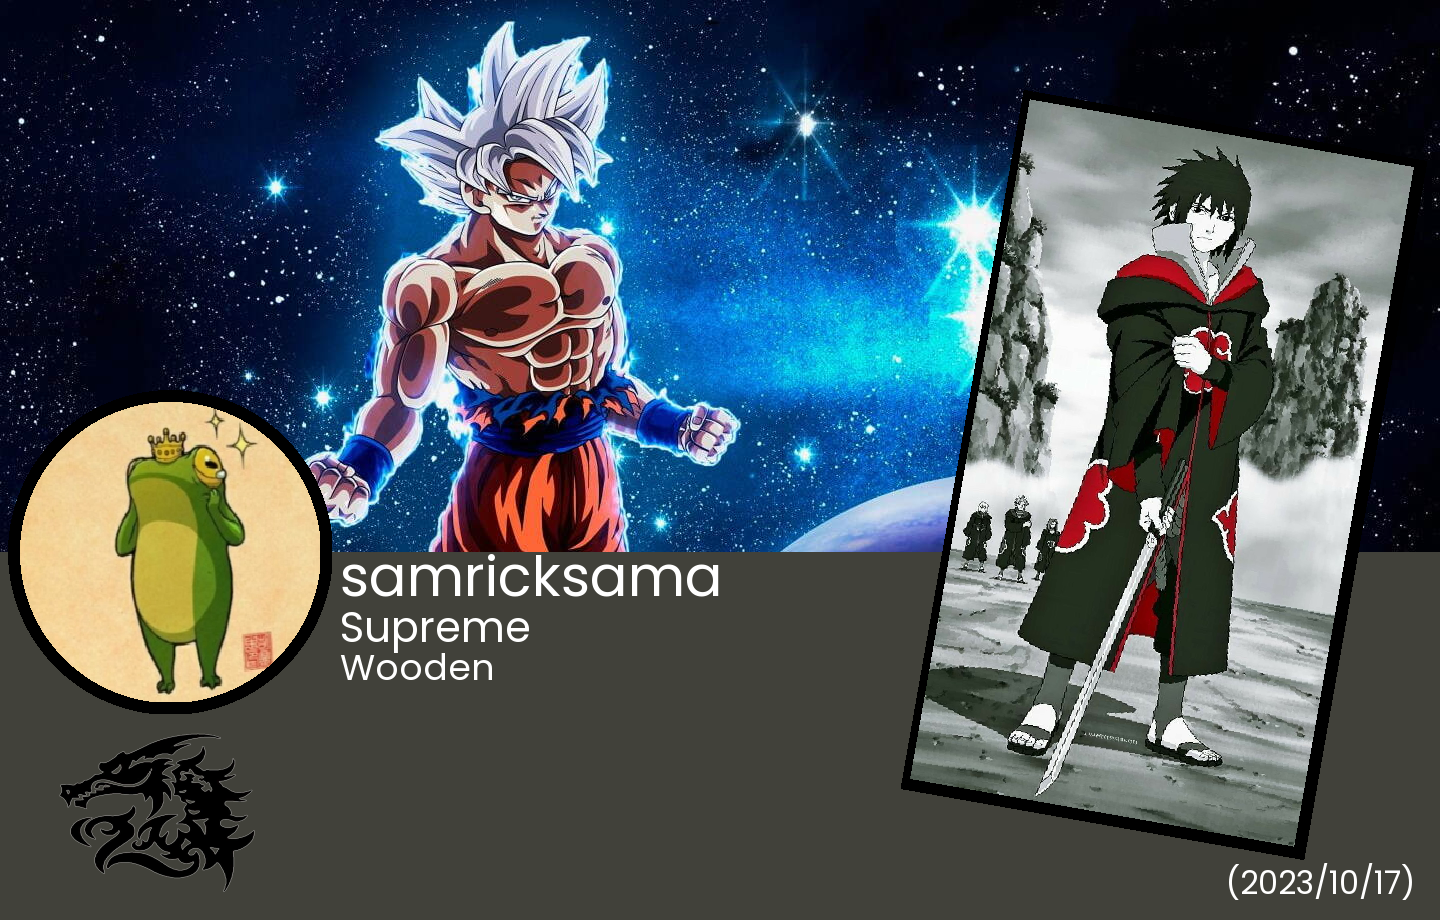
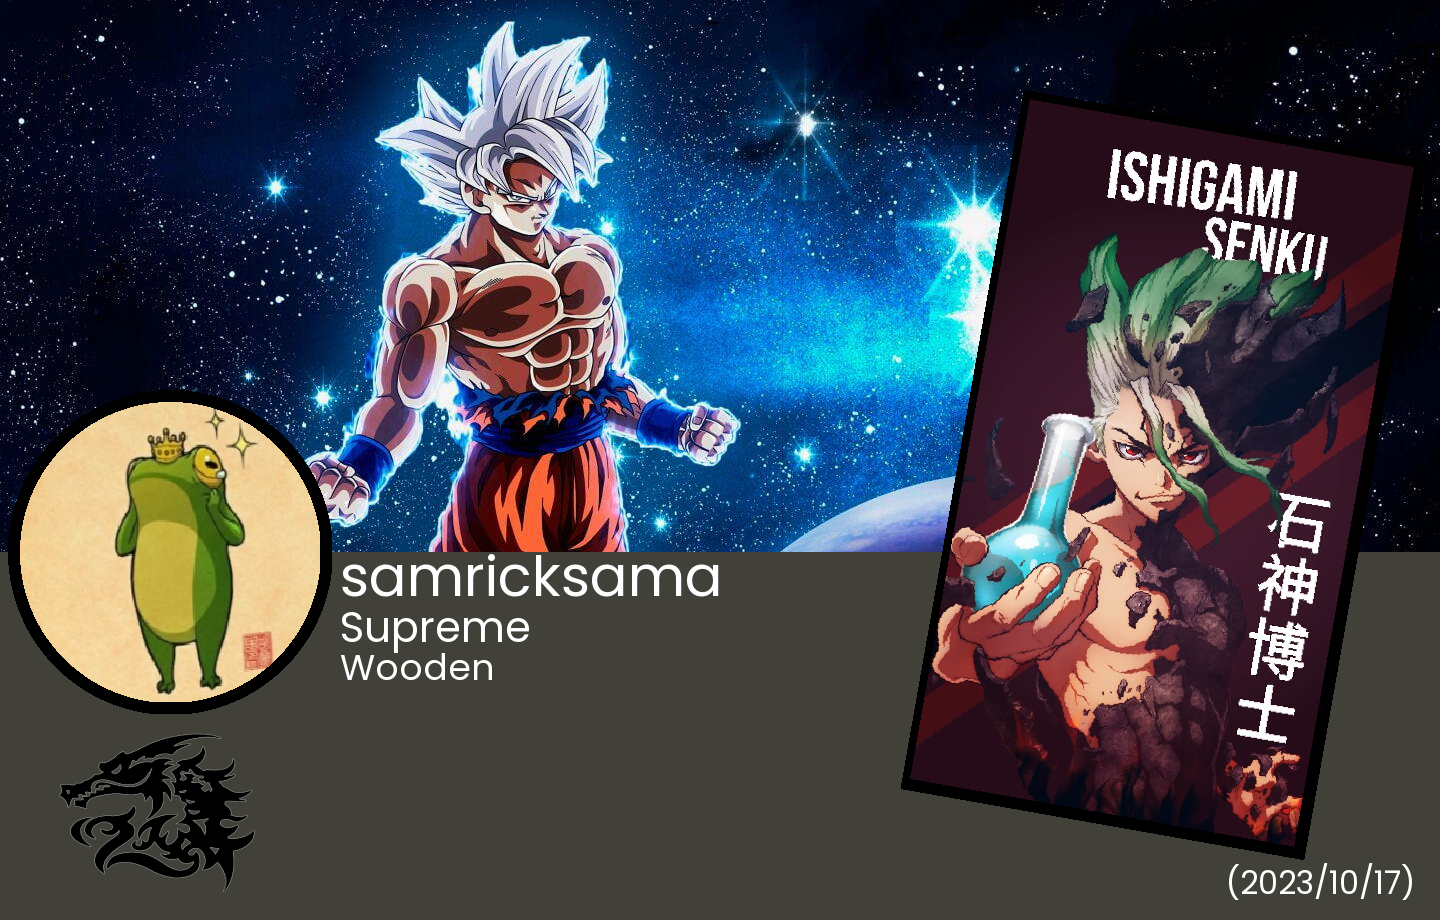
cardshop update

Changed region(s): [[0.625, 0.0913, 1.0, 0.9435]]

diff --git a/main.py b/main.py
@@ -763,11 +763,26 @@ card_folder = './Assets/Cards/'  # Update with your actual path
 
 # Define card information with descriptions and prices
 card_info = {
-    "1.jpg": {"name": "Sasuke", "description": "Akatsuki version", "price": 5100},
-    "2.jpg": {"name": "Goku", "description": "version Ultra instinct !", "price": 15000},
-    "3.jpg": {"name": "Gojo", "description": "Gojo the free version", "price": 20000},
+  "1.jpg": {"name": "Sasuke", "description": "Akatsuki version", "price": 5100},
+  "2.jpg": {"name": "Goku", "description": "version Ultra instinct !", "price": 15000},
+  "3.jpg": {"name": "Gojo", "description": "Gojo the free version", "price": 20000},
+  "4.jpg": {"name": "senku", "description": "dr. stone scienctist prehstoric ", "price": 5000},
+  "5.jpg": {"name": "nagi", "description": "blue lock : lazy genius", "price": 5900},
+  "6.jpg": {"name": "bachira", "description": "Blue lock: monster inside me ", "price": 10000},
+  "7.jpg": {"name": "kaguya", "description": "shinomiya kaguya the sexy ", "price": 9000},
+  "8.jpg": {"name": "Esdeath", "description": "the fallen angel: ice princess ", "price": 14000},
+  "9.jpg": {"name": "byakyuya", "description": "senbon zakura kageyoshi", "price": 12000},
+  "10.jpg": {"name": "killua", "description": "fast AF", "price": 4000},
+  "11.jpg": {"name": "Sukuna", "description": "greatest curse spirit", "price": 18000},
+  "12.jpg": {"name": "Saitama", "description": "Can solo your fav anime-verse", "price": 25000}
     # Add more cards as needed
 }
+
+import discord
+from discord.ext import commands
+
+# Constants
+CARDS_PER_PAGE = 4
 
 @bot.command(name='cardshop')
 @is_registered()
@@ -778,12 +793,8 @@ async def card_shop(ctx):
     with open('Currency/currency.json', 'r') as currency_file:
         currency_data = json.load(currency_file)
 
-    # Create an embedded message to display the card shop
-    embed = discord.Embed(
-        title='Card Shop',
-        description='To buy a card, use **e!buycard [name]**. Here are the available cards:',
-        color=discord.Color.blue()  # Customize the color
-    )
+    # List of available cards
+    available_cards = []
 
     for card_name, card_data in card_info.items():
         name = card_data.get("name", "Unnamed Card")
@@ -795,14 +806,74 @@ async def card_shop(ctx):
         else:
             availability = "Not Enough Redants"
 
-        embed.add_field(
-            name=name,
-            value=f'Description: {description}\nPrice: {price} redants\nAvailability: {availability}',
-            inline=True
+        available_cards.append((name, description, price, availability))
+
+    # Calculate the total number of pages
+    total_pages = (len(available_cards) + CARDS_PER_PAGE - 1) // CARDS_PER_PAGE
+
+    # Initialize page index
+    page_index = 0
+
+    message = None
+
+    # Add reaction controls
+    async def add_reactions():
+        await message.add_reaction("⬅")
+        await message.add_reaction("➡")
+
+    # Function to update the message with the current page
+    async def update_page():
+        nonlocal page_index, message  # Declare message as nonlocal
+        embed = discord.Embed(
+            title=f'Card Shop - Page {page_index + 1}/{total_pages}',
+            description='To buy a card, use **e!buycard [name]**. Here are the available cards:',
+            color=discord.Color.blue()
         )
 
-    # Send the embedded message
-    await ctx.send(embed=embed)
+        start_idx = page_index * CARDS_PER_PAGE
+        end_idx = (page_index + 1) * CARDS_PER_PAGE
+
+        for card_data in available_cards[start_idx:end_idx]:
+            name, description, price, availability = card_data
+            embed.add_field(
+                name=name,
+                value=f'Description: {description}\nPrice: {price} redants\nAvailability: {availability}',
+                inline=True
+            )
+
+        # Send the embedded message
+        if message:
+            await message.edit(embed=embed)
+        else:
+            message = await ctx.send(embed=embed)
+            await add_reactions()
+
+    # Initial page display
+    await update_page()
+
+    def check(reaction, user):
+        return user == ctx.author and reaction.message == message
+
+    while True:
+        try:
+            reaction, user = await bot.wait_for('reaction_add', check=check, timeout=60.0)
+        except asyncio.TimeoutError:
+            break
+
+        if str(reaction.emoji) == '⬅':
+            # Move to the previous page
+            page_index = (page_index - 1) % total_pages
+            await update_page()
+        elif str(reaction.emoji) == '➡':
+            # Move to the next page
+            page_index = (page_index + 1) % total_pages
+            await update_page()
+
+        # Remove the user's reaction
+        await message.remove_reaction(reaction, user)
+
+    # Remove reactions when done
+    await message.clear_reactions()
 
 
 
